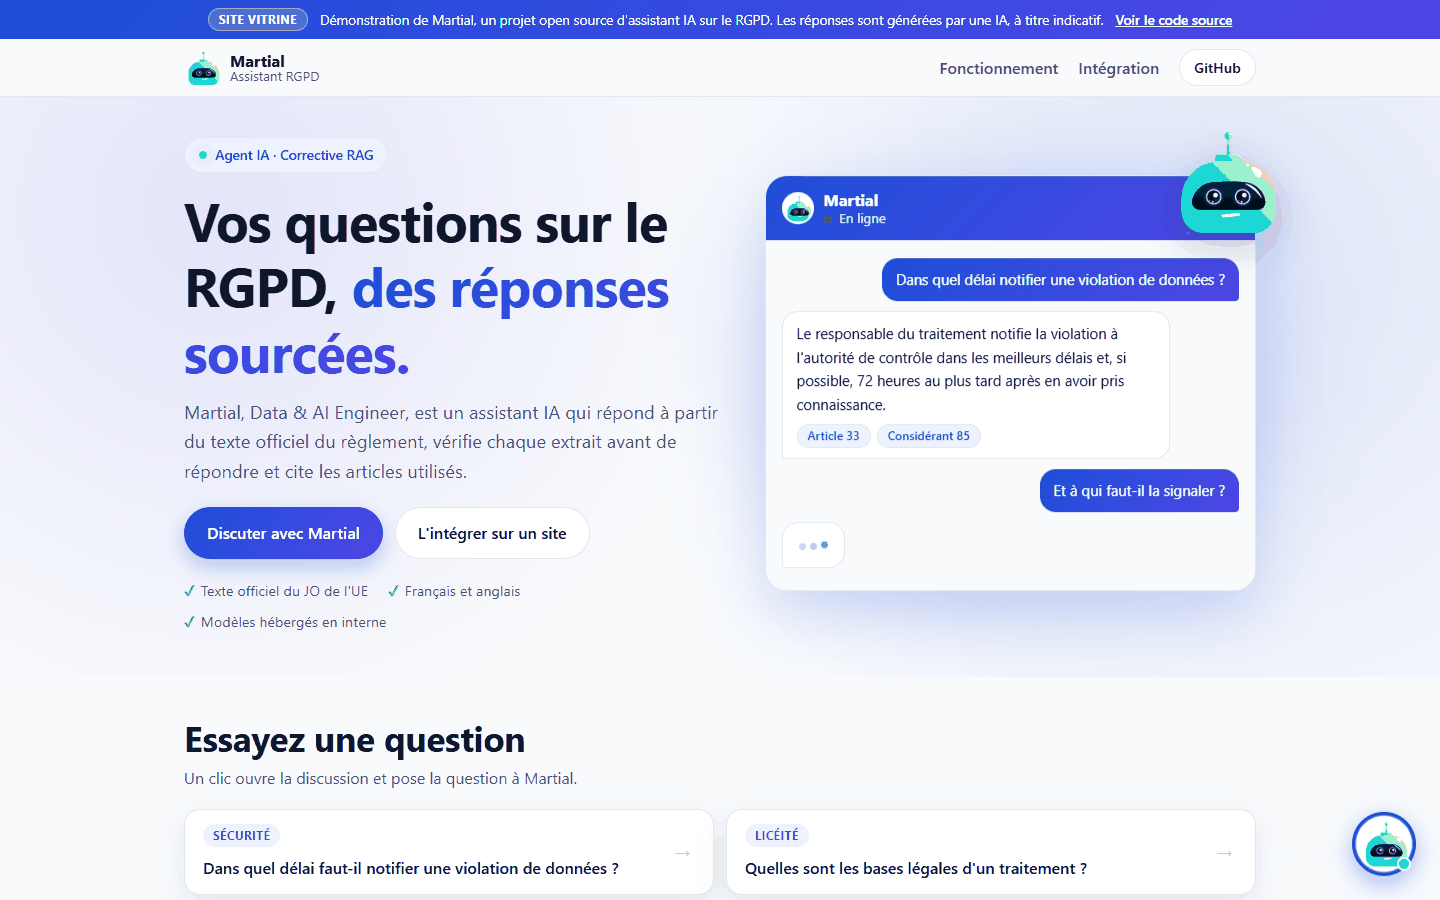
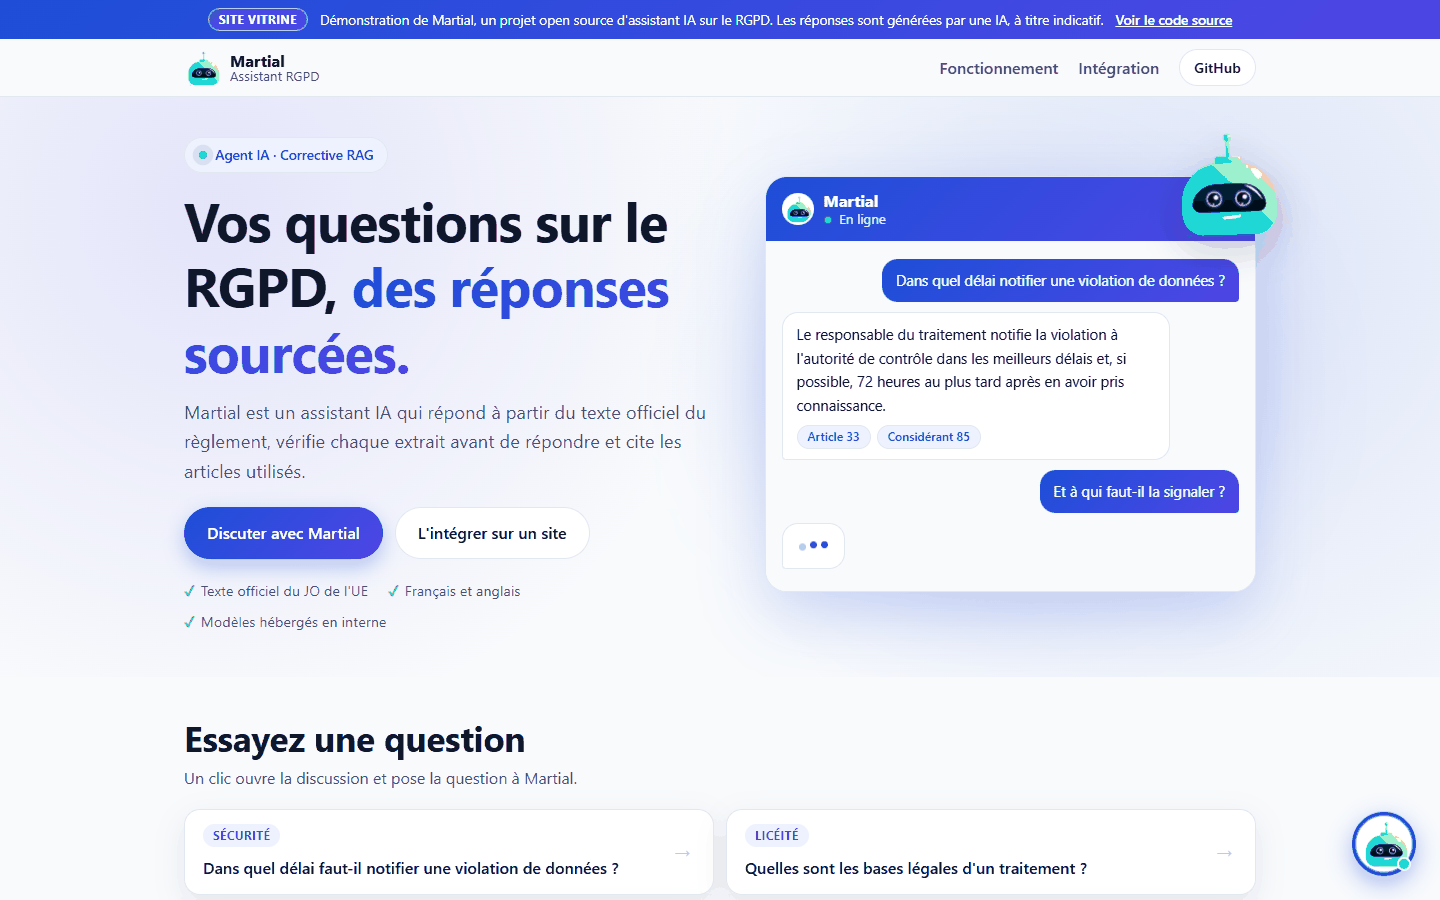
Titre de l'assistant : « Assistant RGPD » au lieu de « Data & AI Engineer »
« Data & AI Engineer » est le titre de l'auteur du projet ; l'assistant
se présente désormais comme « Martial, Assistant RGPD ».

- Widget : titre par défaut sous le nom (data-role) et message d'accueil
  reformulé pour ne pas répéter « assistant RGPD » deux fois.
- Personnalité du LLM (ASSISTANT_ROLE) : « Tu es Martial, Assistant
  RGPD… ».
- Page de démonstration, code d'intégration, README et tests mis à jour.
- Captures d'écran du README refaites avec le nouveau titre (vraies
  réponses de l'API).

diff --git a/frontend/widget.js b/frontend/widget.js
@@ -12,7 +12,7 @@
 //                   widget.js, suivi de /api)
 //   data-language : langue par défaut, « fr » ou « en » (défaut : fr)
 //   data-title    : nom de l'assistant (défaut : Martial)
-//   data-role     : titre affiché sous le nom (défaut : Data & AI Engineer)
+//   data-role     : titre affiché sous le nom (défaut : Assistant RGPD)
 //   data-avatar   : image de l'assistant (défaut : bot-avatar.png, à côté
 //                   de widget.js)
 //
@@ -45,7 +45,7 @@
         title = scriptTag.dataset.title;
     }
 
-    let role = "Data & AI Engineer";
+    let role = "Assistant RGPD";
     if (scriptTag.dataset.role) {
         role = scriptTag.dataset.role;
     }
@@ -69,9 +69,9 @@
         fr: {
             // {name} et {role} sont remplacés par le nom et le titre.
             welcome:
-                "Bonjour, je suis {name}, {role}. Je suis un assistant IA " +
-                "spécialisé dans le RGPD : posez-moi vos questions, je vous " +
-                "réponds à partir du texte officiel en citant les articles utilisés.",
+                "Bonjour, je suis {name} ({role}), un assistant IA : posez-moi " +
+                "vos questions sur le RGPD, je vous réponds à partir du texte " +
+                "officiel en citant les articles utilisés.",
             placeholder: "Écrivez votre question…",
             send: "Envoyer",
             sources: "Sources",
@@ -110,9 +110,9 @@
         },
         en: {
             welcome:
-                "Hello, I am {name}, {role}. I am an AI assistant specialised " +
-                "in the GDPR: ask me your questions, I answer from the official " +
-                "text and cite the articles used.",
+                "Hello, I am {name} ({role}), an AI assistant: ask me your " +
+                "questions about the GDPR, I answer from the official text and " +
+                "cite the articles used.",
             placeholder: "Type your question…",
             send: "Send",
             sources: "Sources",

diff --git a/frontend/index.html b/frontend/index.html
@@ -65,7 +65,7 @@
                         <span class="gradient-text">des réponses sourcées.</span>
                     </h1>
                     <p class="lead">
-                        Martial, Data &amp; AI Engineer, est un assistant IA qui
+                        Martial est un assistant IA qui
                         répond à partir du texte officiel du règlement, vérifie
                         chaque extrait avant de répondre et cite les articles
                         utilisés.
@@ -261,7 +261,7 @@
                     <pre><code id="snippet">&lt;script src="http://localhost:8080/widget.js"
         data-language="fr"
         data-title="Martial"
-        data-role="Data &amp; AI Engineer"&gt;&lt;/script&gt;</code></pre>
+        data-role="Assistant RGPD"&gt;&lt;/script&gt;</code></pre>
                 </div>
             </div>
         </section>

diff --git a/tests/test_agent.py b/tests/test_agent.py
@@ -235,7 +235,7 @@ def test_generation_prompt_contains_persona():
     agent.ask(QUESTION)
 
     generation_prompt = llm.prompts[-1]
-    assert generation_prompt.startswith("Tu es Martial, Data & AI Engineer")
+    assert generation_prompt.startswith("Tu es Martial, Assistant RGPD")
     # L'assistant doit rester transparent sur sa nature d'IA.
     assert "assistant d'intelligence artificielle" in generation_prompt
 
@@ -311,7 +311,7 @@ def test_off_topic_message_gets_a_direct_answer():
     assert result["sources"] == []
     assert result["search_query"] == ""
     # La réponse garde la personnalité de l'assistant.
-    assert llm.prompts[1].startswith("Tu es Martial, Data & AI Engineer")
+    assert llm.prompts[1].startswith("Tu es Martial, Assistant RGPD")
 
 
 # ----- Réponse envoyée au fil de l'eau (streaming) -----

diff --git a/src/config.py b/src/config.py
@@ -85,7 +85,7 @@ class Settings(BaseSettings):
     # ----- Personnalité de l'assistant -----
     # Nom et titre utilisés dans le prompt de génération des réponses.
     assistant_name: str = "Martial"
-    assistant_role: str = "Data & AI Engineer"
+    assistant_role: str = "Assistant RGPD"
 
     # ----- API -----
     # Sites autorisés à appeler l'API depuis le navigateur (CORS), par

diff --git a/src/graph.py b/src/graph.py
@@ -571,7 +571,7 @@ class CragAgent:
         max_rewrites=1,
         max_history=4,
         name="Martial",
-        role="Data & AI Engineer",
+        role="Assistant RGPD",
         grade_excerpt_length=400,
     ):
         self.retriever = retriever

diff --git a/README.md b/README.md
@@ -76,7 +76,7 @@ premiers résultats (par exemple l'Article 6 pour les bases légales).
 
 ### Martial, l'assistant
 
-L'assistant se présente sous le nom de **Martial, Data & AI Engineer** : un ton clair,
+L'assistant se présente sous le nom de **Martial, Assistant RGPD** : un ton clair,
 pédagogique et professionnel, qui vouvoie et cite systématiquement les articles utilisés.
 Il annonce toujours être un **assistant IA**, conformément à l'obligation de transparence de
 l'AI Act européen. Le nom et le titre se règlent avec `ASSISTANT_NAME` et `ASSISTANT_ROLE`.
@@ -147,7 +147,7 @@ Options facultatives (attributs de la balise `<script>`) :
 |---|---|---|
 | `data-language` | `fr` | Langue par défaut (`fr` ou `en`) |
 | `data-title` | `Martial` | Nom de l'assistant affiché dans l'en-tête |
-| `data-role` | `Data & AI Engineer` | Titre affiché sous le nom |
+| `data-role` | `Assistant RGPD` | Titre affiché sous le nom |
 | `data-avatar` | `bot-avatar.png` à côté de `widget.js` | Image de l'assistant |
 | `data-api-url` | serveur qui fournit `widget.js` + `/api` | Adresse de l'API |
 
@@ -268,7 +268,7 @@ d'environnement ou fichier `.env` :
 | `MAX_REWRITES` | `1` | Reformulations maximales avant abandon |
 | `MAX_HISTORY` | `4` | Échanges passés pris en compte (mémoire de conversation) |
 | `GRADE_EXCERPT_LENGTH` | `400` | Longueur des extraits montrés au LLM pour l'évaluation (caractères) |
-| `ASSISTANT_NAME` / `ASSISTANT_ROLE` | `Martial` / `Data & AI Engineer` | Personnalité de l'assistant |
+| `ASSISTANT_NAME` / `ASSISTANT_ROLE` | `Martial` / `Assistant RGPD` | Personnalité de l'assistant |
 | `CORS_ORIGINS` | `["*"]` | Sites autorisés à appeler l'API (JSON), ex. `["https://mon-site.fr"]` |
 
 ## Corpus et indexation
